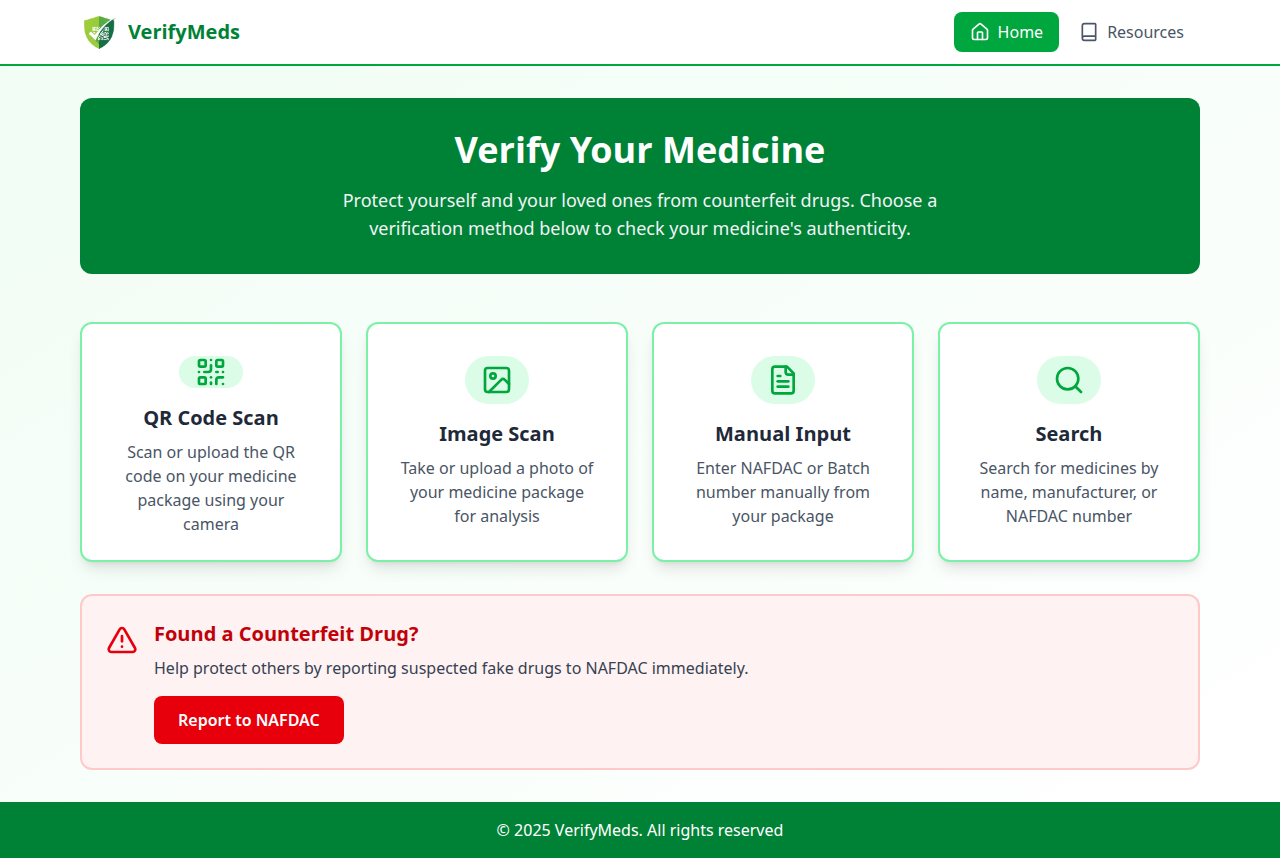
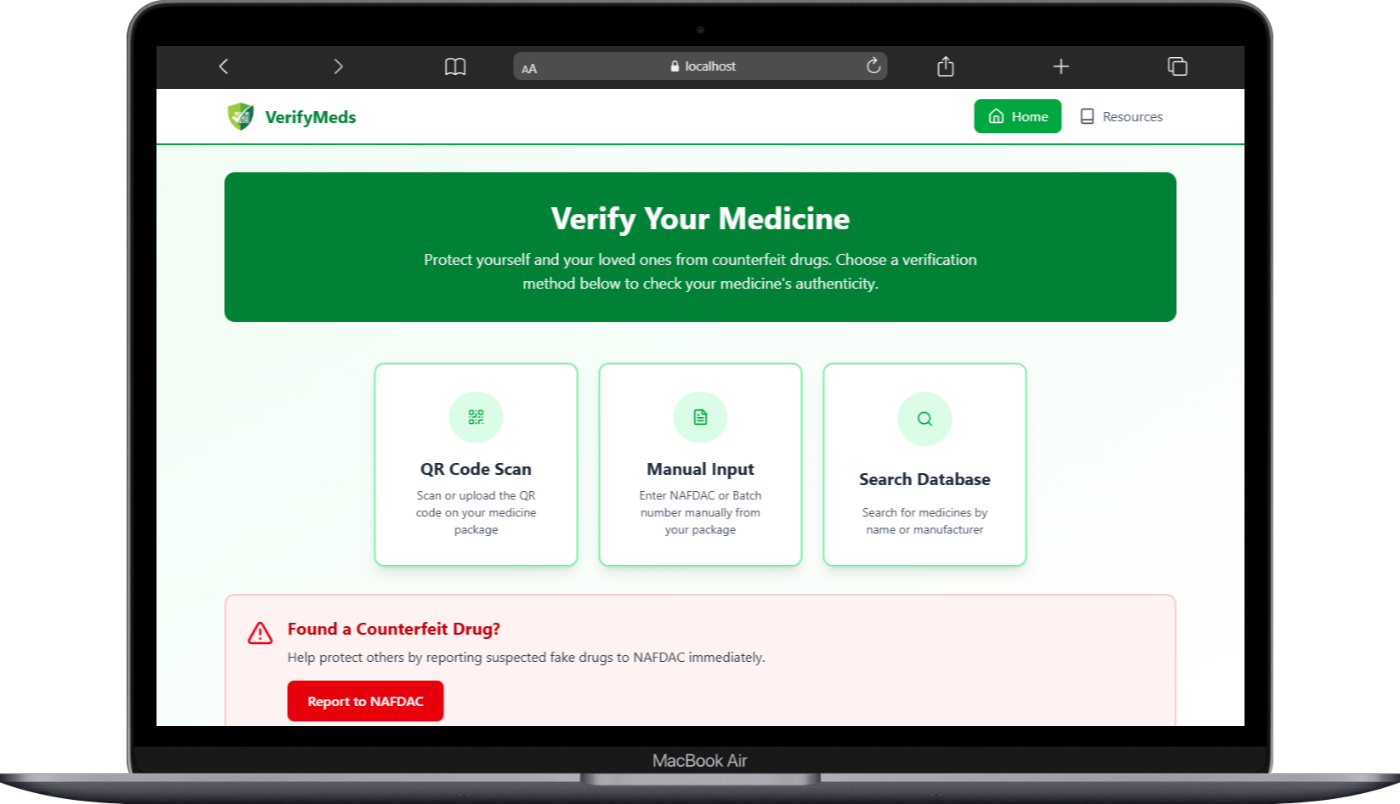
refactor(verification): remove OCR image scanning feature
Remove OCR functionality using Tesseract.js from verification methods. Update README files by removing image scanning section, renumbering steps, and adjusting camera integration description. Simplify technical flow by eliminating image processing and OCR steps. Enhance UI responsiveness in HomePage.jsx by adjusting padding and width for verification method cards. Add new mobile demo images and update existing demo screenshots.

diff --git a/team-19-verifymeds/src/src/components/HomePage.jsx b/team-19-verifymeds/src/src/components/HomePage.jsx
@@ -91,7 +91,7 @@ const HomePage = ({
           {/* QR Code Method */}
           <div
             onClick={() => setVerificationMethod('qr')}
-            className="bg-white rounded-xl shadow-lg p-2 md:p-8 w-28 md:w-60 hover:shadow-xl transition-all cursor-pointer border-2 border-green-300 hover:border-green-500 h-50 md:h-60 flex flex-col justify-between"
+            className="bg-white rounded-xl shadow-lg p-6 md:p-8 w-40 md:w-60 hover:shadow-xl transition-all cursor-pointer border-2 border-green-300 hover:border-green-500 h-50 md:h-60 flex flex-col justify-between"
             role="button"
             tabIndex={0}
             aria-label="Scan QR code on medicine package"
@@ -127,7 +127,7 @@ const HomePage = ({
           {/* Manual Input Method */}
           <div
             onClick={() => setVerificationMethod('manual')}
-            className="bg-white rounded-xl shadow-lg p-2 md:p-8 w-28 md:w-60 hover:shadow-xl transition-all cursor-pointer border-2 border-green-300 hover:border-green-500 h-50 md:h-60 flex flex-col justify-between"
+            className="bg-white rounded-xl shadow-lg p-6 md:p-8 w-40 md:w-60 hover:shadow-xl transition-all cursor-pointer border-2 border-green-300 hover:border-green-500 h-50 md:h-60 flex flex-col justify-between"
             role="button"
             tabIndex={0}
             aria-label="Enter NAFDAC or batch number manually"
@@ -145,7 +145,7 @@ const HomePage = ({
           {/* Search Method */}
           <div
             onClick={() => setVerificationMethod('search')}
-            className="bg-white rounded-xl shadow-lg p-2 md:p-8 w-28 md:w-60 hover:shadow-xl transition-all cursor-pointer border-2 border-green-300 hover:border-green-500 h-50 md:h-60 flex flex-col items-center justify-between"
+            className="bg-white rounded-xl shadow-lg p-6 md:p-8 w-40 md:w-60 hover:shadow-xl transition-all cursor-pointer border-2 border-green-300 hover:border-green-500 h-50 md:h-60 flex flex-col items-center justify-between"
             role="button"
             tabIndex={0}
             aria-label="Search for medicines by name or manufacturer"

diff --git a/team-19-verifymeds/README.md b/team-19-verifymeds/README.md
@@ -52,7 +52,7 @@ Try the live application at: [verifymeds.vercel.app](https://verifymeds.vercel.a
 ### Progressive Web App (PWA) Features
 - **Offline Support:** Service workers cache app resources for offline functionality
 - **Installable:** Can be installed on mobile devices and desktops as a native app
-- **Camera Integration:** Native camera access for scanning QR codes and images
+- **Camera Integration:** Native camera access for scanning QR codes
 - **Responsive Design:** Optimized for mobile, tablet, and desktop devices
 - **Fast Loading:** Vite-optimized build for quick startup and performance
 
@@ -88,17 +88,11 @@ npm run dev
 - Decoded data is verified against NAFDAC database
 - Results show authenticity, expiry status, and drug details
 
-**2. Image Scanning (OCR)**
-- User opens camera modal and captures photo of drug packaging text
-- App uses **Tesseract.js** for optical character recognition to extract text
-- Extracted text is searched for NAFDAC registration numbers or batch numbers
-- Matching drugs are verified against the database
-
-**3. Manual Input**
+**2. Manual Input**
 - User enters NAFDAC registration number (format: XX-XXXX or AXX-XXXXXX) or batch number (format: XXX-XXXXXXXX)
 - Direct lookup in NAFDAC database for verification
 
-**4. Search**
+**3. Search**
 - User searches by drug name, manufacturer, or NAFDAC number
 - Real-time search through NAFDAC dataset with fuzzy matching
 - Click to select and view detailed drug information
@@ -106,12 +100,10 @@ npm run dev
 ### Technical Flow
 
 1. **Camera Access:** Uses WebRTC `getUserMedia` API with mobile-optimized constraints
-2. **Image Processing:** Canvas API for image capture and processing
-3. **QR Decoding:** jsQR processes image data to extract QR code content
-4. **OCR Processing:** Tesseract.js analyzes images to extract readable text
-5. **Data Verification:** Searches JSON-based NAFDAC dataset for matches
-6. **Expiry Calculation:** Compares current date with drug expiry dates
-7. **PWA Features:** Service workers for offline functionality, install prompts
+2. **QR Decoding:** jsQR processes image data to extract QR code content
+3. **Data Verification:** Searches JSON-based NAFDAC dataset for matches
+4. **Expiry Calculation:** Compares current date with drug expiry dates
+5. **PWA Features:** Service workers for offline functionality, install prompts
 
 ### Result Display
 

diff --git a/team-19-verifymeds/src/README.md b/team-19-verifymeds/src/README.md
@@ -52,7 +52,7 @@ Try the live application at: [verifymeds.vercel.app](https://verifymeds.vercel.a
 ### Progressive Web App (PWA) Features
 - **Offline Support:** Service workers cache app resources for offline functionality
 - **Installable:** Can be installed on mobile devices and desktops as a native app
-- **Camera Integration:** Native camera access for scanning QR codes and images
+- **Camera Integration:** Native camera access for scanning QR codes
 - **Responsive Design:** Optimized for mobile, tablet, and desktop devices
 - **Fast Loading:** Vite-optimized build for quick startup and performance
 
@@ -88,17 +88,11 @@ npm run dev
 - Decoded data is verified against NAFDAC database
 - Results show authenticity, expiry status, and drug details
 
-**2. Image Scanning (OCR)**
-- User opens camera modal and captures photo of drug packaging text
-- App uses **Tesseract.js** for optical character recognition to extract text
-- Extracted text is searched for NAFDAC registration numbers or batch numbers
-- Matching drugs are verified against the database
-
-**3. Manual Input**
+**2. Manual Input**
 - User enters NAFDAC registration number (format: XX-XXXX or AXX-XXXXXX) or batch number (format: XXX-XXXXXXXX)
 - Direct lookup in NAFDAC database for verification
 
-**4. Search**
+**3. Search**
 - User searches by drug name, manufacturer, or NAFDAC number
 - Real-time search through NAFDAC dataset with fuzzy matching
 - Click to select and view detailed drug information
@@ -106,12 +100,10 @@ npm run dev
 ### Technical Flow
 
 1. **Camera Access:** Uses WebRTC `getUserMedia` API with mobile-optimized constraints
-2. **Image Processing:** Canvas API for image capture and processing
-3. **QR Decoding:** jsQR processes image data to extract QR code content
-4. **OCR Processing:** Tesseract.js analyzes images to extract readable text
-5. **Data Verification:** Searches JSON-based NAFDAC dataset for matches
-6. **Expiry Calculation:** Compares current date with drug expiry dates
-7. **PWA Features:** Service workers for offline functionality, install prompts
+2. **QR Decoding:** jsQR processes image data to extract QR code content
+3. **Data Verification:** Searches JSON-based NAFDAC dataset for matches
+4. **Expiry Calculation:** Compares current date with drug expiry dates
+5. **PWA Features:** Service workers for offline functionality, install prompts
 
 ### Result Display
 
